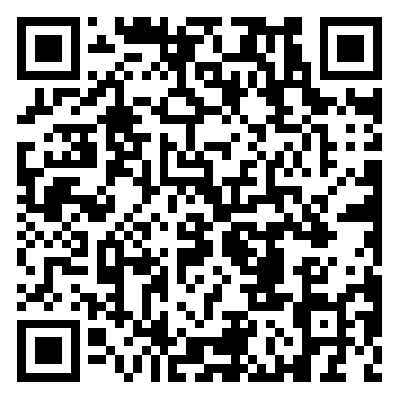
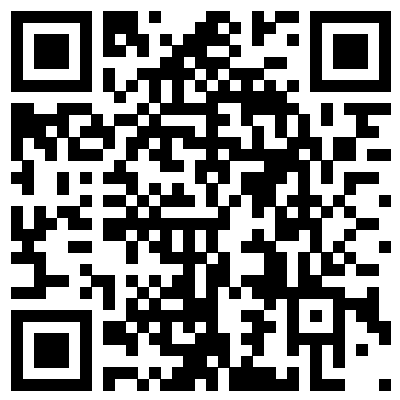
测试

diff --git a/index.html b/index.html
@@ -200,17 +200,17 @@
 				<div class="cont-wrap">
 					<div class="con-item">
 						<label><span class="labelName">报告标题：</span><span class="conName" id="title">审计报告</span></label>
-						<label><span class="labelName">报告文号：</span><span class="conName" id="textNo">义林奥审字［2022］第Q4-310
+						<label><span class="labelName">报告文号：</span><span class="conName" id="textNo">永坤审字［2021］第J-14363
 								号</span></label>
 						<label><span class="labelName">客户名称：</span><span class="conName"
-								id="custmerName">商丘市强军特种装备有限公司</span></label>
-						<label><span class="labelName">录入时间：</span><span class="conName" id="enterTime">2022-08-16
+								id="custmerName">河南祥旭建筑工程有限公司</span></label>
+						<label><span class="labelName">录入时间：</span><span class="conName" id="enterTime">2020-04-10
 								10:43:21</span></label>
 						<label><span class="labelName">所属事务所：</span><span class="conName"
-								id="createTime">北京义林奥会计事务所（普通合伙）</span></label>
+								id="createTime">北京永坤会计师事务所（普通合伙）</span></label>
 						<label id="accountants"><span class="labelName">签字注册会计师：</span>
 						<span class="conName"
-								id="">肖靖轩，孙长胜</span>
+								id="">陈敬杨，周岩</span>
 						</label>
 					</div>
 					<div class="con-item qrcode">
@@ -228,7 +228,7 @@
 			</div>
 		</div>
 		<div class="hr"></div>
-		<div class="copyright"> 北京义林奥会计事务所 版权所有 </div>
+		<div class="copyright"> 北京永坤会计师事务所 版权所有 </div>
 
 
 		<script src="./js/jquery.min.js"></script>

diff --git a/js/tt.js b/js/tt.js
@@ -1,0 +1,11 @@
+
+
+const diffArr = (arr1, arr2) => {
+ let arr = []
+ arr1.map(item => {
+  if(arr2.indexOf(item) > -1) {
+    arr.push(item)
+  }
+ })
+ return arr
+}

diff --git a/README.md b/README.md
@@ -1,2 +1,2 @@
 # report.github.io
-前段代码学习，学习静态页面部署，不用商业用途，仅供参考学习，如有侵权，请联系本人，删除！！！
+学习部署
